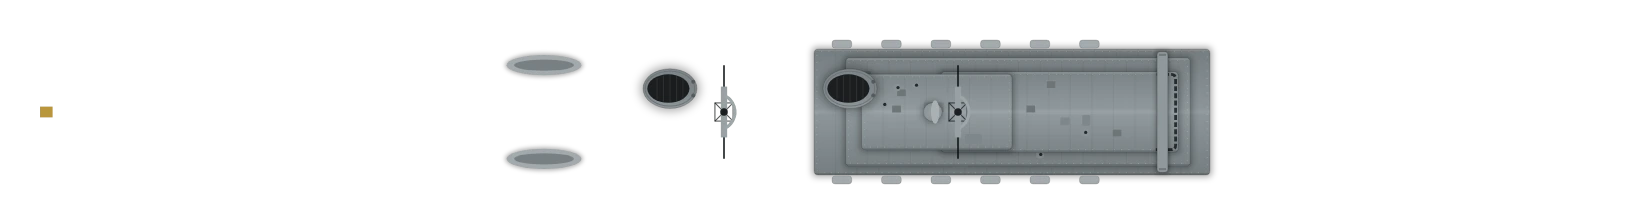
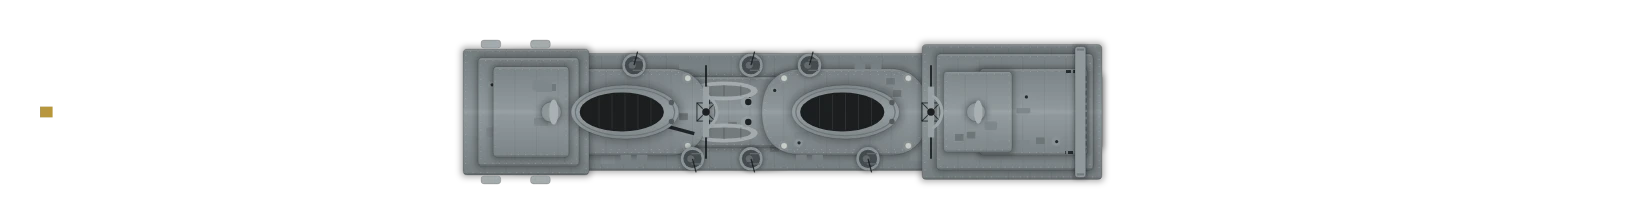
Iowa's mainmast abaft her after funnel (its radar turned inside the stack); the Ticonderoga's superstructure and funnels after the owner's photograph, funnels on the centreline
fit_audit 139 standard-fit faults, none new. aux_test, review_test, run_presets pass.

Claude-Session: https://claude.ai/code/session_0112riLGm4nSjrgsGiYL5DUG

Changed region(s): [[0.2764, 0.1562, 0.7678, 0.8438]]

diff --git a/index.html b/index.html
@@ -430,7 +430,7 @@ const DESIGN_LIST = [
     slots: [sl('H', 60, 0, FWD, 'g460'), sl('H', 39, 0, FWD, 'g460'), sl('H', -60, 0, AFT, 'g460'), sl('M', 19, 0, FWD, 'g152'), sl('M', -45, 0, AFT, 'g152'), ...pair('M', 2, 16.6, 'g127'), ...pair('M', -12, 17.2, 'g127'), ...pair('M', -26, 16.6, 'g127'), ...pair('A', 12, 15.8, 'aa40'), ...pair('A', -36, 15.6, 'aa40'), ...pair('A', -50, 13, 'aa20'),
       ...pair('A', 6, 12.4, 'aa20'), ...pair('A', -5, 12.8, 'aa20'), ...pair('A', -19, 12.8, 'aa20'), ...pair('A', -31, 12, 'aa20'), ...pair('A', 22, 15.4, 'aa20'), ...pair('A', -6, 18, 'aa20'), ...pair('A', -20, 18, 'aa20')] },
   { id: 'bb_iowa', cls: 'bb', yard: 'tidewater', dn: 'Constellation', model: 'Iowa-class battleship', year: 1943, era: 1, L: 270.4, B: 33, t: 45000, kn: 33, td: 1100, armor: 307, crew: 2700, price: 160000,
-    p: { outline: [[135.2, 1.03], [134.28, 1.27], [132.83, 2.81], [132.57, 2.93], [131.91, 2.94], [130.46, 2.5], [126.52, 3.15], [123.88, 3.29], [122.44, 3.55], [119.94, 3.73], [116.25, 4.45], [111.12, 5.24], [102.96, 5.79], [91.51, 7.05], [80.07, 8.64], [63.36, 11.63], [56.12, 12.79], [43.49, 14.48], [40.59, 14.67], [37.83, 15.02], [26.78, 15.82], [19.41, 16.12], [15.86, 16.14], [13.09, 16.42], [-11.12, 16.52], [-13.88, 16.66], [-17.96, 16.55], [-32.7, 16.6], [-72.57, 16.39], [-75.33, 16.23], [-80.2, 16.22], [-82.96, 15.95], [-86.65, 15.8], [-93.49, 15.29], [-101.25, 14.3], [-105.2, 14.01], [-112.57, 12.59], [-113.88, 12.15], [-119.8, 9.63], [-121.38, 9.09], [-122.96, 8.71], [-128.36, 6.81], [-129.15, 6.63], [-130.99, 6.9], [-131.91, 6.76], [-132.57, 6.42], [-133.09, 5.97], [-134.54, 2.74], [-135.2, 2.2]], bow: .4, run: .2, stern: 'c', deck: 'teak', house: [[-15, 79, 17]], sup: [[12, 25, 15, 5], [-42, 20, 12, 2]], fun: [[-3, 5, 3.4], [-27, 5, 3.4]], mast: [[5, 't'], [-29, 'p']], boats: [[-47, 1]], cat: [[-122, -6], [-122, 6]], crane: [[-131, 0]], tubs: [[104, 0, 1.9], [26, 5, 1.6], [26, -5, 1.6], [-15, 6, 1.6], [-15, -6, 1.6]] },
+    p: { outline: [[135.2, 1.03], [134.28, 1.27], [132.83, 2.81], [132.57, 2.93], [131.91, 2.94], [130.46, 2.5], [126.52, 3.15], [123.88, 3.29], [122.44, 3.55], [119.94, 3.73], [116.25, 4.45], [111.12, 5.24], [102.96, 5.79], [91.51, 7.05], [80.07, 8.64], [63.36, 11.63], [56.12, 12.79], [43.49, 14.48], [40.59, 14.67], [37.83, 15.02], [26.78, 15.82], [19.41, 16.12], [15.86, 16.14], [13.09, 16.42], [-11.12, 16.52], [-13.88, 16.66], [-17.96, 16.55], [-32.7, 16.6], [-72.57, 16.39], [-75.33, 16.23], [-80.2, 16.22], [-82.96, 15.95], [-86.65, 15.8], [-93.49, 15.29], [-101.25, 14.3], [-105.2, 14.01], [-112.57, 12.59], [-113.88, 12.15], [-119.8, 9.63], [-121.38, 9.09], [-122.96, 8.71], [-128.36, 6.81], [-129.15, 6.63], [-130.99, 6.9], [-131.91, 6.76], [-132.57, 6.42], [-133.09, 5.97], [-134.54, 2.74], [-135.2, 2.2]], bow: .4, run: .2, stern: 'c', deck: 'teak', house: [[-15, 79, 17]], sup: [[12, 25, 15, 5], [-42, 20, 12, 2]], fun: [[-3, 5, 3.4], [-27, 5, 3.4]], mast: [[5, 't'], [-33, 'p']], boats: [[-47, 1]], cat: [[-122, -6], [-122, 6]], crane: [[-131, 0]], tubs: [[104, 0, 1.9], [26, 5, 1.6], [26, -5, 1.6], [-15, 6, 1.6], [-15, -6, 1.6]] },
     slots: [sl('H', 56, 0, FWD, 'g406'), sl('H', 34, 0, FWD, 'g406'), sl('H', -65, 0, AFT, 'g406'), ...pair('M', 18, 12.2, 'g127'), ...pair('M', 6, 13.6, 'g127'), ...pair('M', -10, 13.6, 'g127'), ...pair('M', -24, 13.6, 'g127'), ...pair('M', -38, 12.6, 'g127'), ...pair('A', 42, 11.4, 'aa40'), ...pair('A', -53, 11, 'aa40'), ...pair('A', -96, 9, 'aa40')] },
   { id: 'bb_vanguard', cls: 'bb', yard: 'clydemouth', dn: 'Imperator', model: 'Vanguard (1946)', year: 1946, era: 1, L: 248.2, B: 32.9, t: 44500, kn: 30, td: 1000, armor: 356, crew: 1893, price: 150000,
     p: { bow: .36, run: .22, stern: 't', tw: .45, deck: 'teak', house: [[-2, 64, 16]], sup: [[30, 20, 15, 5], [-30, 16, 11, 3]], fun: [[10, 4, 3.2], [-12, 4, 3.2]], mast: [[22, 't'], [-22, 't']], boats: [[-1, 3]] },
@@ -665,8 +665,8 @@ const DESIGN_LIST = [
     slots: [sl('M', 68, 0, FWD, 'rail'), sl('M', 48, 0, FWD, 'rail'), sl('V', 32, -6.2, ALL, 'ssm'), sl('V', 32, 6.2, ALL, 'sam'), sl('V', -56, -7.8, ALL, 'sam'), sl('V', -56, 7.8, ALL, 'ssm'), sl('V', -66, 0, ALL, 'sam'), sl('A', -47, 0, ALL, 'ciws')] },
   // ---------------------------------------------------------------- missile cruisers (Era III)
   { id: 'cg_tico', cls: 'cg', yard: 'tidewater', dn: 'Bastion', model: 'Ticonderoga-class cruiser', year: 1983, era: 3, L: 172.8, B: 16.8, t: 9600, kn: 32.5, td: 800, armor: 25, crew: 330, price: 190000,
-    p: { bow: .34, run: .22, stern: 't', tw: .55, sup: [[22, 44, 14, 4]], fun: [[4, 3, 2.2, -2.6], [-16, 3, 2.2, -2.6]], mast: [[16, 'l'], [-10, 'l']], boats: [[-30, 1]] },
-    slots: [sl('M', 70, 0, FWD, 'g127a'), sl('V', 56, 0, ALL, 'ssm'), sl('V', -54, 0, ALL, 'sam'), sl('V', 44, 0, ALL, 'sam'), sl('V', -68, 0, ALL, 'ssm'), sl('M', -78, 0, AFT, 'g127a'), sl('A', 38, -5, PORT, 'ciws'), sl('A', -40, 5, STBD, 'ciws'), sl('T', -24, 0, BEAM, 'torh')] },
+    p: { bow: .34, run: .22, stern: 't', tw: .55, house: [[-3, 70, 13]], sup: [[22, 20, 15, 4], [-32, 14, 14, 3]], fun: [[3.5, 6, 3], [-21, 6, 3]], mast: [[13, 'l'], [-12, 'l']], boats: [[-6, 1]], helo: [[-45, 6]] },
+    slots: [sl('M', 70, 0, FWD, 'g127a'), sl('V', 56, 0, ALL, 'ssm'), sl('V', -54, 0, ALL, 'sam'), sl('V', 44, 0, ALL, 'sam'), sl('V', -68, 0, ALL, 'ssm'), sl('M', -78, 0, AFT, 'g127a'), sl('A', 38, -5, PORT, 'ciws'), sl('A', -36, 5, STBD, 'ciws'), sl('T', -31, 0, BEAM, 'torh')] },
   { id: 'cg_slava', cls: 'cg', yard: 'neva', dn: 'Gromoboi', model: 'Slava-class cruiser', year: 1982, era: 3, L: 186.4, B: 20.8, t: 9380, kn: 32, td: 880, armor: 25, crew: 476, price: 225000,
     p: { bow: .36, run: .2, stern: 't', tw: .5, sup: [[40, 24, 13, 4], [-18, 30, 11, 2]], fun: [[-10, 3.4, 2.4, -4], [-10, 3.4, 2.4, 4]], mast: [[32, 'l'], [-30, 'l']], boats: [[0, 1]] },
     slots: [sl('M', 76, 0, FWD, 'g130a'), ...pair('V', 24, 8, 'ssmh'), sl('V', -52, 0, ALL, 'sam'), sl('V', -68, 0, ALL, 'sam'), ...pair('A', -38, 7.6, 'ciws'), sl('T', -24, 0, BEAM, 'torh')] },

diff --git a/src/game.html b/src/game.html
@@ -427,7 +427,7 @@ const DESIGN_LIST = [
     slots: [sl('H', 60, 0, FWD, 'g460'), sl('H', 39, 0, FWD, 'g460'), sl('H', -60, 0, AFT, 'g460'), sl('M', 19, 0, FWD, 'g152'), sl('M', -45, 0, AFT, 'g152'), ...pair('M', 2, 16.6, 'g127'), ...pair('M', -12, 17.2, 'g127'), ...pair('M', -26, 16.6, 'g127'), ...pair('A', 12, 15.8, 'aa40'), ...pair('A', -36, 15.6, 'aa40'), ...pair('A', -50, 13, 'aa20'),
       ...pair('A', 6, 12.4, 'aa20'), ...pair('A', -5, 12.8, 'aa20'), ...pair('A', -19, 12.8, 'aa20'), ...pair('A', -31, 12, 'aa20'), ...pair('A', 22, 15.4, 'aa20'), ...pair('A', -6, 18, 'aa20'), ...pair('A', -20, 18, 'aa20')] },
   { id: 'bb_iowa', cls: 'bb', yard: 'tidewater', dn: 'Constellation', model: 'Iowa-class battleship', year: 1943, era: 1, L: 270.4, B: 33, t: 45000, kn: 33, td: 1100, armor: 307, crew: 2700, price: 160000,
-    p: { outline: [[135.2, 1.03], [134.28, 1.27], [132.83, 2.81], [132.57, 2.93], [131.91, 2.94], [130.46, 2.5], [126.52, 3.15], [123.88, 3.29], [122.44, 3.55], [119.94, 3.73], [116.25, 4.45], [111.12, 5.24], [102.96, 5.79], [91.51, 7.05], [80.07, 8.64], [63.36, 11.63], [56.12, 12.79], [43.49, 14.48], [40.59, 14.67], [37.83, 15.02], [26.78, 15.82], [19.41, 16.12], [15.86, 16.14], [13.09, 16.42], [-11.12, 16.52], [-13.88, 16.66], [-17.96, 16.55], [-32.7, 16.6], [-72.57, 16.39], [-75.33, 16.23], [-80.2, 16.22], [-82.96, 15.95], [-86.65, 15.8], [-93.49, 15.29], [-101.25, 14.3], [-105.2, 14.01], [-112.57, 12.59], [-113.88, 12.15], [-119.8, 9.63], [-121.38, 9.09], [-122.96, 8.71], [-128.36, 6.81], [-129.15, 6.63], [-130.99, 6.9], [-131.91, 6.76], [-132.57, 6.42], [-133.09, 5.97], [-134.54, 2.74], [-135.2, 2.2]], bow: .4, run: .2, stern: 'c', deck: 'teak', house: [[-15, 79, 17]], sup: [[12, 25, 15, 5], [-42, 20, 12, 2]], fun: [[-3, 5, 3.4], [-27, 5, 3.4]], mast: [[5, 't'], [-29, 'p']], boats: [[-47, 1]], cat: [[-122, -6], [-122, 6]], crane: [[-131, 0]], tubs: [[104, 0, 1.9], [26, 5, 1.6], [26, -5, 1.6], [-15, 6, 1.6], [-15, -6, 1.6]] },
+    p: { outline: [[135.2, 1.03], [134.28, 1.27], [132.83, 2.81], [132.57, 2.93], [131.91, 2.94], [130.46, 2.5], [126.52, 3.15], [123.88, 3.29], [122.44, 3.55], [119.94, 3.73], [116.25, 4.45], [111.12, 5.24], [102.96, 5.79], [91.51, 7.05], [80.07, 8.64], [63.36, 11.63], [56.12, 12.79], [43.49, 14.48], [40.59, 14.67], [37.83, 15.02], [26.78, 15.82], [19.41, 16.12], [15.86, 16.14], [13.09, 16.42], [-11.12, 16.52], [-13.88, 16.66], [-17.96, 16.55], [-32.7, 16.6], [-72.57, 16.39], [-75.33, 16.23], [-80.2, 16.22], [-82.96, 15.95], [-86.65, 15.8], [-93.49, 15.29], [-101.25, 14.3], [-105.2, 14.01], [-112.57, 12.59], [-113.88, 12.15], [-119.8, 9.63], [-121.38, 9.09], [-122.96, 8.71], [-128.36, 6.81], [-129.15, 6.63], [-130.99, 6.9], [-131.91, 6.76], [-132.57, 6.42], [-133.09, 5.97], [-134.54, 2.74], [-135.2, 2.2]], bow: .4, run: .2, stern: 'c', deck: 'teak', house: [[-15, 79, 17]], sup: [[12, 25, 15, 5], [-42, 20, 12, 2]], fun: [[-3, 5, 3.4], [-27, 5, 3.4]], mast: [[5, 't'], [-33, 'p']], boats: [[-47, 1]], cat: [[-122, -6], [-122, 6]], crane: [[-131, 0]], tubs: [[104, 0, 1.9], [26, 5, 1.6], [26, -5, 1.6], [-15, 6, 1.6], [-15, -6, 1.6]] },
     slots: [sl('H', 56, 0, FWD, 'g406'), sl('H', 34, 0, FWD, 'g406'), sl('H', -65, 0, AFT, 'g406'), ...pair('M', 18, 12.2, 'g127'), ...pair('M', 6, 13.6, 'g127'), ...pair('M', -10, 13.6, 'g127'), ...pair('M', -24, 13.6, 'g127'), ...pair('M', -38, 12.6, 'g127'), ...pair('A', 42, 11.4, 'aa40'), ...pair('A', -53, 11, 'aa40'), ...pair('A', -96, 9, 'aa40')] },
   { id: 'bb_vanguard', cls: 'bb', yard: 'clydemouth', dn: 'Imperator', model: 'Vanguard (1946)', year: 1946, era: 1, L: 248.2, B: 32.9, t: 44500, kn: 30, td: 1000, armor: 356, crew: 1893, price: 150000,
     p: { bow: .36, run: .22, stern: 't', tw: .45, deck: 'teak', house: [[-2, 64, 16]], sup: [[30, 20, 15, 5], [-30, 16, 11, 3]], fun: [[10, 4, 3.2], [-12, 4, 3.2]], mast: [[22, 't'], [-22, 't']], boats: [[-1, 3]] },
@@ -662,8 +662,8 @@ const DESIGN_LIST = [
     slots: [sl('M', 68, 0, FWD, 'rail'), sl('M', 48, 0, FWD, 'rail'), sl('V', 32, -6.2, ALL, 'ssm'), sl('V', 32, 6.2, ALL, 'sam'), sl('V', -56, -7.8, ALL, 'sam'), sl('V', -56, 7.8, ALL, 'ssm'), sl('V', -66, 0, ALL, 'sam'), sl('A', -47, 0, ALL, 'ciws')] },
   // ---------------------------------------------------------------- missile cruisers (Era III)
   { id: 'cg_tico', cls: 'cg', yard: 'tidewater', dn: 'Bastion', model: 'Ticonderoga-class cruiser', year: 1983, era: 3, L: 172.8, B: 16.8, t: 9600, kn: 32.5, td: 800, armor: 25, crew: 330, price: 190000,
-    p: { bow: .34, run: .22, stern: 't', tw: .55, sup: [[22, 44, 14, 4]], fun: [[4, 3, 2.2, -2.6], [-16, 3, 2.2, -2.6]], mast: [[16, 'l'], [-10, 'l']], boats: [[-30, 1]] },
-    slots: [sl('M', 70, 0, FWD, 'g127a'), sl('V', 56, 0, ALL, 'ssm'), sl('V', -54, 0, ALL, 'sam'), sl('V', 44, 0, ALL, 'sam'), sl('V', -68, 0, ALL, 'ssm'), sl('M', -78, 0, AFT, 'g127a'), sl('A', 38, -5, PORT, 'ciws'), sl('A', -40, 5, STBD, 'ciws'), sl('T', -24, 0, BEAM, 'torh')] },
+    p: { bow: .34, run: .22, stern: 't', tw: .55, house: [[-3, 70, 13]], sup: [[22, 20, 15, 4], [-32, 14, 14, 3]], fun: [[3.5, 6, 3], [-21, 6, 3]], mast: [[13, 'l'], [-12, 'l']], boats: [[-6, 1]], helo: [[-45, 6]] },
+    slots: [sl('M', 70, 0, FWD, 'g127a'), sl('V', 56, 0, ALL, 'ssm'), sl('V', -54, 0, ALL, 'sam'), sl('V', 44, 0, ALL, 'sam'), sl('V', -68, 0, ALL, 'ssm'), sl('M', -78, 0, AFT, 'g127a'), sl('A', 38, -5, PORT, 'ciws'), sl('A', -36, 5, STBD, 'ciws'), sl('T', -31, 0, BEAM, 'torh')] },
   { id: 'cg_slava', cls: 'cg', yard: 'neva', dn: 'Gromoboi', model: 'Slava-class cruiser', year: 1982, era: 3, L: 186.4, B: 20.8, t: 9380, kn: 32, td: 880, armor: 25, crew: 476, price: 225000,
     p: { bow: .36, run: .2, stern: 't', tw: .5, sup: [[40, 24, 13, 4], [-18, 30, 11, 2]], fun: [[-10, 3.4, 2.4, -4], [-10, 3.4, 2.4, 4]], mast: [[32, 'l'], [-30, 'l']], boats: [[0, 1]] },
     slots: [sl('M', 76, 0, FWD, 'g130a'), ...pair('V', 24, 8, 'ssmh'), sl('V', -52, 0, ALL, 'sam'), sl('V', -68, 0, ALL, 'sam'), ...pair('A', -38, 7.6, 'ciws'), sl('T', -24, 0, BEAM, 'torh')] },

diff --git a/docs/AGENT_NOTES.md b/docs/AGENT_NOTES.md
@@ -90,3 +90,4 @@
 - **Hulls traced from the owner's plans** (14 Nov 2026): `bb_iowa` and `bb_montana` (a line drawing of both), `bb_bismarck` and `bb_kgv` (a coloured plan of Bismarck and Prince of Wales with metre scales) carry an `outline` traced from the deck edge of a top view: the outermost line per pixel column, mirrored about a fitted centreline, gaps in a broken edge bridged with a rolling max or fittings (ladders, booms, text) removed with a rolling median, the last few metres at each end kept from a finer trace, then simplified to 30 to 50 points (Douglas-Peucker, 0.08 m). Scale from the drawing's own bar or the design's length; the traced beams agreed with the real ones within 0.6 m. Turrets and upper works were not moved. fit_audit unchanged for all four. The plans themselves are not kept in the repository (some are copyrighted).
 - **More from the owner's plans** (14 Nov 2026): `bb_nelson` and `ca_takao` hulls traced the same way (the Takao's with a smooth fit under her sponsons and boat platforms, which stand out past the hull as on the real ship). The Takao, at his word and after his plan (the Takao-Kai design of 1929/30): the forward turret nearest the bridge faces aft (`sl('L', 49, 0, AFT, ...)`), the bridge moved aft to clear it (`sup` 13 to 33 m, the foremast with it) and one trunked funnel (`fun: [[1, 7, 4]]`). The Yakumo's (`cve_izumo`) CIWS pair moved from x 116, 17.5 m out (off the angled bow of the flight deck, over the water) to x 104, 16.5 m out. `tests/shot_art` now trains a centreline mount to the middle of her own arc, as the game does at the start of an action (it pointed every mount forward of amidships ahead).
 - **Nelson's 6-inch turrets** (the owner, 14 Nov 2026): three a side, all on the deck (`low`: `superfiring` had stacked them in steps, as a chain on one line), moved aft to 57, 66 and 73 m abaft amidships after his plan; the 4.7-inch pair that stood at 66 m moved to 40 m; the deckhouse runs aft to 53 m (`house: [[-19.5, 67, 15]]`, his word). He is content to leave the main battery as it is. The main battery is not yet moved: on his plan it stands at about 43, 22 and 0 m (the game: 62, 44, 26), and the game's 16-inch triple (17 m house, 17 m of barrel) is drawn larger than the plan's (about 14 m and 10 m), so X's barrels reach under B whatever the spacing.
+- **Funnels and masts** (the owner, 14 Nov 2026): the Iowa's mainmast stands abaft her after funnel (`[-33, 'p']`; at -29 it was inside the stack and its turning search aerial was drawn in the funnel). The Ticonderoga follows his photograph: one long deckhouse between the two radar blocks (`house` -38 to 32 m; blocks 12 to 32 and -25 to -39), both stacks on the centreline in it, the lattice mainmast between them, a helicopter deck aft, the torpedo tubes moved aft of the after stack and the after CIWS onto the after block.
